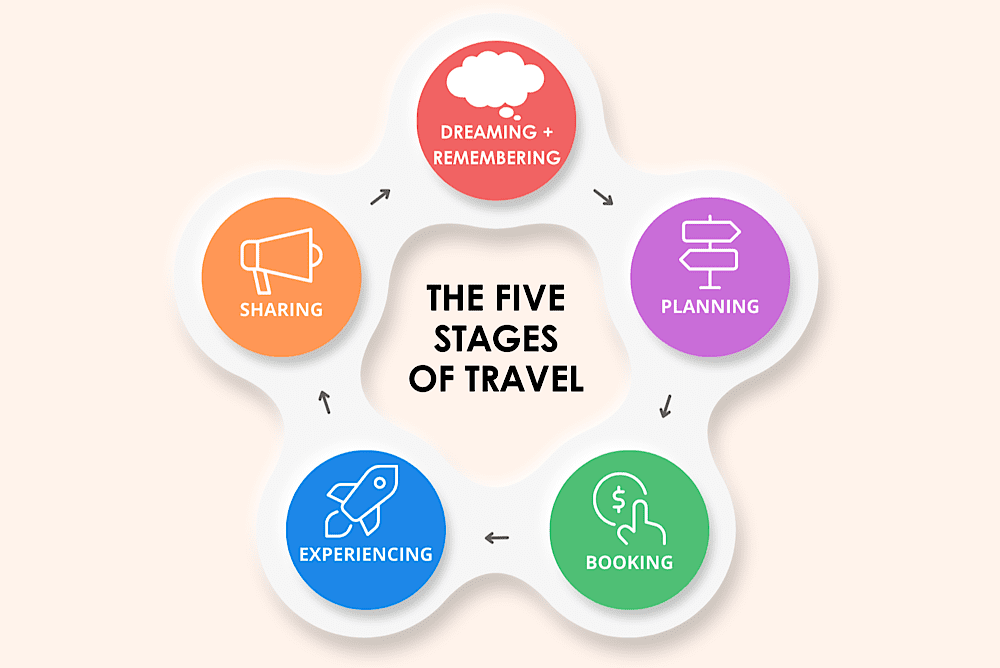
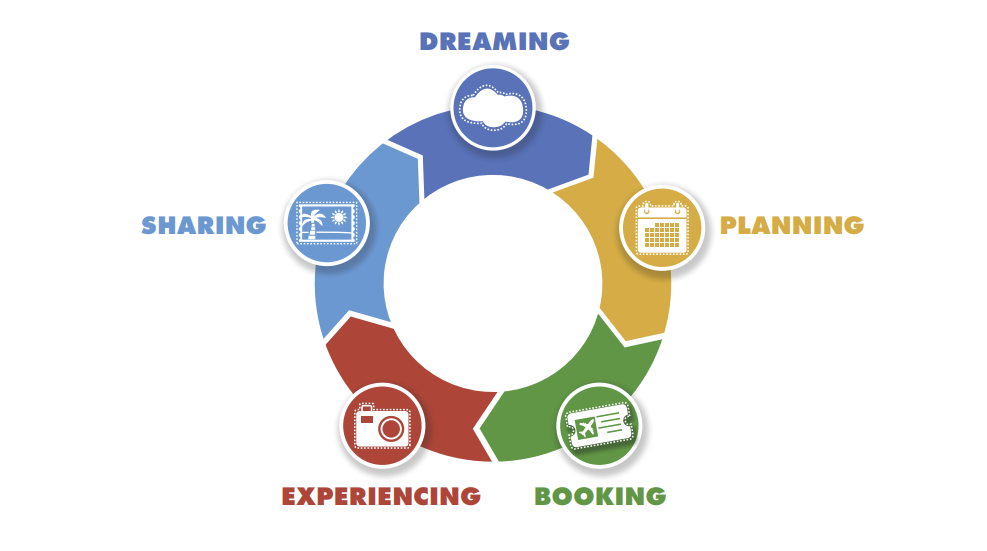
supplement reference

Changed region(s): [[0.1216, 0.0617, 0.8815, 1.0]]

diff --git a/Sections/2. Background Knowledge/background knowledge.tex b/Sections/2. Background Knowledge/background knowledge.tex
@@ -48,19 +48,19 @@ Các thành phần trong chuỗi cung ứng gồm:
 
 \subsection{Hành trình khách hàng (Customer Journey) trong du lịch}
 \subsubsection{Định nghĩa}
-Hành trình khách hàng trong du lịch là toàn bộ quá trình mà một người trải qua từ khi nảy sinh ý định đi du lịch cho đến khi kết thúc chuyến đi và chia sẻ kỷ niệm. Quá trình này thường được chia thành 5 giai đoạn chính:
+Hành trình du khách hiện đại không còn là một đường thẳng mà là một hệ sinh thái các điểm chạm kỹ thuật số, nơi thiết bị di động đóng vai trò trung tâm. Theo báo cáo từ IESE Business School \cite{iese2016tourism}, quy trình này bao gồm 5 giai đoạn cốt lõi (The Five Stages of Travel):
 \begin{enumerate}
-    \item Giai đoạn ước mơ (Dreaming/Inspiration): Khách hàng bắt đầu hình thành ý tưởng về một chuyến đi, thường được truyền cảm hứng từ mạng xã hội, bạn bè, phim ảnh, hoặc các bài viết du lịch. Nhu cầu thông tin ở giai đoạn này là những hình ảnh, câu chuyện hấp dẫn, mang tính gợi mở.
-    \item Giai đoạn lập kế hoạch (Planning): Khách hàng đã quyết định được điểm điến và bắt đầu sắp xếp một lịch trình cụ thể: chọn ngày đi, quyết định thứ tự tham quan các địa điểm, ước tính thời gian và ngân sách. Khách hàng tích cực tìm kiếm thông tin về địa điểm, so sánh chi phí, đọc đánh giá, xem các lựa chọn về vận chuyển và lưu trú.
-    \item Giai đoạn đặt dịch vụ (Booking): Khách hàng tiến hành thanh toán cho các dịch vụ đã chọn như vé máy bay, phòng khách sạn, tour trong ngày. Nhu cầu là một quy trình đặt dịch vụ đơn giản, an toàn và minh bạch.
-    \item Giai đoạn trải nghiệm (Experiencing): Khách hàng thực sự tham gia vào chuyến đi. Nhu cầu của họ là các thông tin theo thời gian thực như chỉ đường, gợi ý quán ăn gần đây, thông tin về thời tiết, hoặc điều chỉnh lịch trình đột xuất.
-    \item Giai đoạn chia sẻ (Sharing): Sau chuyến đi, khách hàng chia sẻ trải nghiệm, hình ảnh, video và viết đánh giá trên các nền tảng mạng xã hội hoặc website du lịch. Nội dung này trở thành nguồn cảm hứng và thông tin cho những người khác.
+    \item \textbf{Giai đoạn ước mơ (Dreaming):} Đây là điểm khởi đầu khi người dùng nảy sinh ý định du lịch thông qua việc quan sát trải nghiệm của bạn bè, đồng nghiệp trên các mạng xã hội như Facebook, Instagram hoặc Twitter.
+    \item \textbf{Giai đoạn lập kế hoạch (Planning):} Người dùng chuyển sang nghiên cứu chi tiết về điểm đến. Giai đoạn này thường được thực hiện thông qua các nền tảng đánh giá như TripAdvisor hoặc các nguồn thông tin mở như Wikipedia để tối ưu hóa lịch trình.
+    \item \textbf{Giai đoạn đặt dịch vụ (Booking):} Sau khi đã có kế hoạch, du khách tiến hành đặt vé máy bay, phòng khách sạn hoặc các dịch vụ đi kèm. Sự tiện lợi và minh bạch của các nền tảng trực tuyến là yếu tố then chốt ở bước này.
+    \item \textbf{Giai đoạn trải nghiệm (Experiencing):} Trong suốt chuyến đi, du khách liên tục sử dụng điện thoại thông minh để quản lý trải nghiệm cá nhân, từ việc tìm đường đến tìm kiếm các nội dung liên quan trực tiếp tại địa điểm thực tế.
+    \item \textbf{Giai đoạn chia sẻ (Sharing):} Du khách chia sẻ hình ảnh, video và cảm nhận của mình lên không gian mạng. Hành động này đóng đóng vai trò quan trọng vì nó trở thành nguồn cảm hứng cho giai đoạn "Dreaming" của những người dùng khác trong tương lai.
 \end{enumerate}
 
 \begin{figure}[h!]
     \centering
     \includegraphics[width=13 cm]{Images/2-knowledge/customer-journey.png}
-    \caption{5 Giai đoạn của hành trình khách hàng trong du lịch}
+    \caption{Mô hình 5 giai đoạn hành trình khách hàng (Nguồn: \cite{iese2016tourism})}
     \label{fig:placeholder}
 \end{figure}
 
